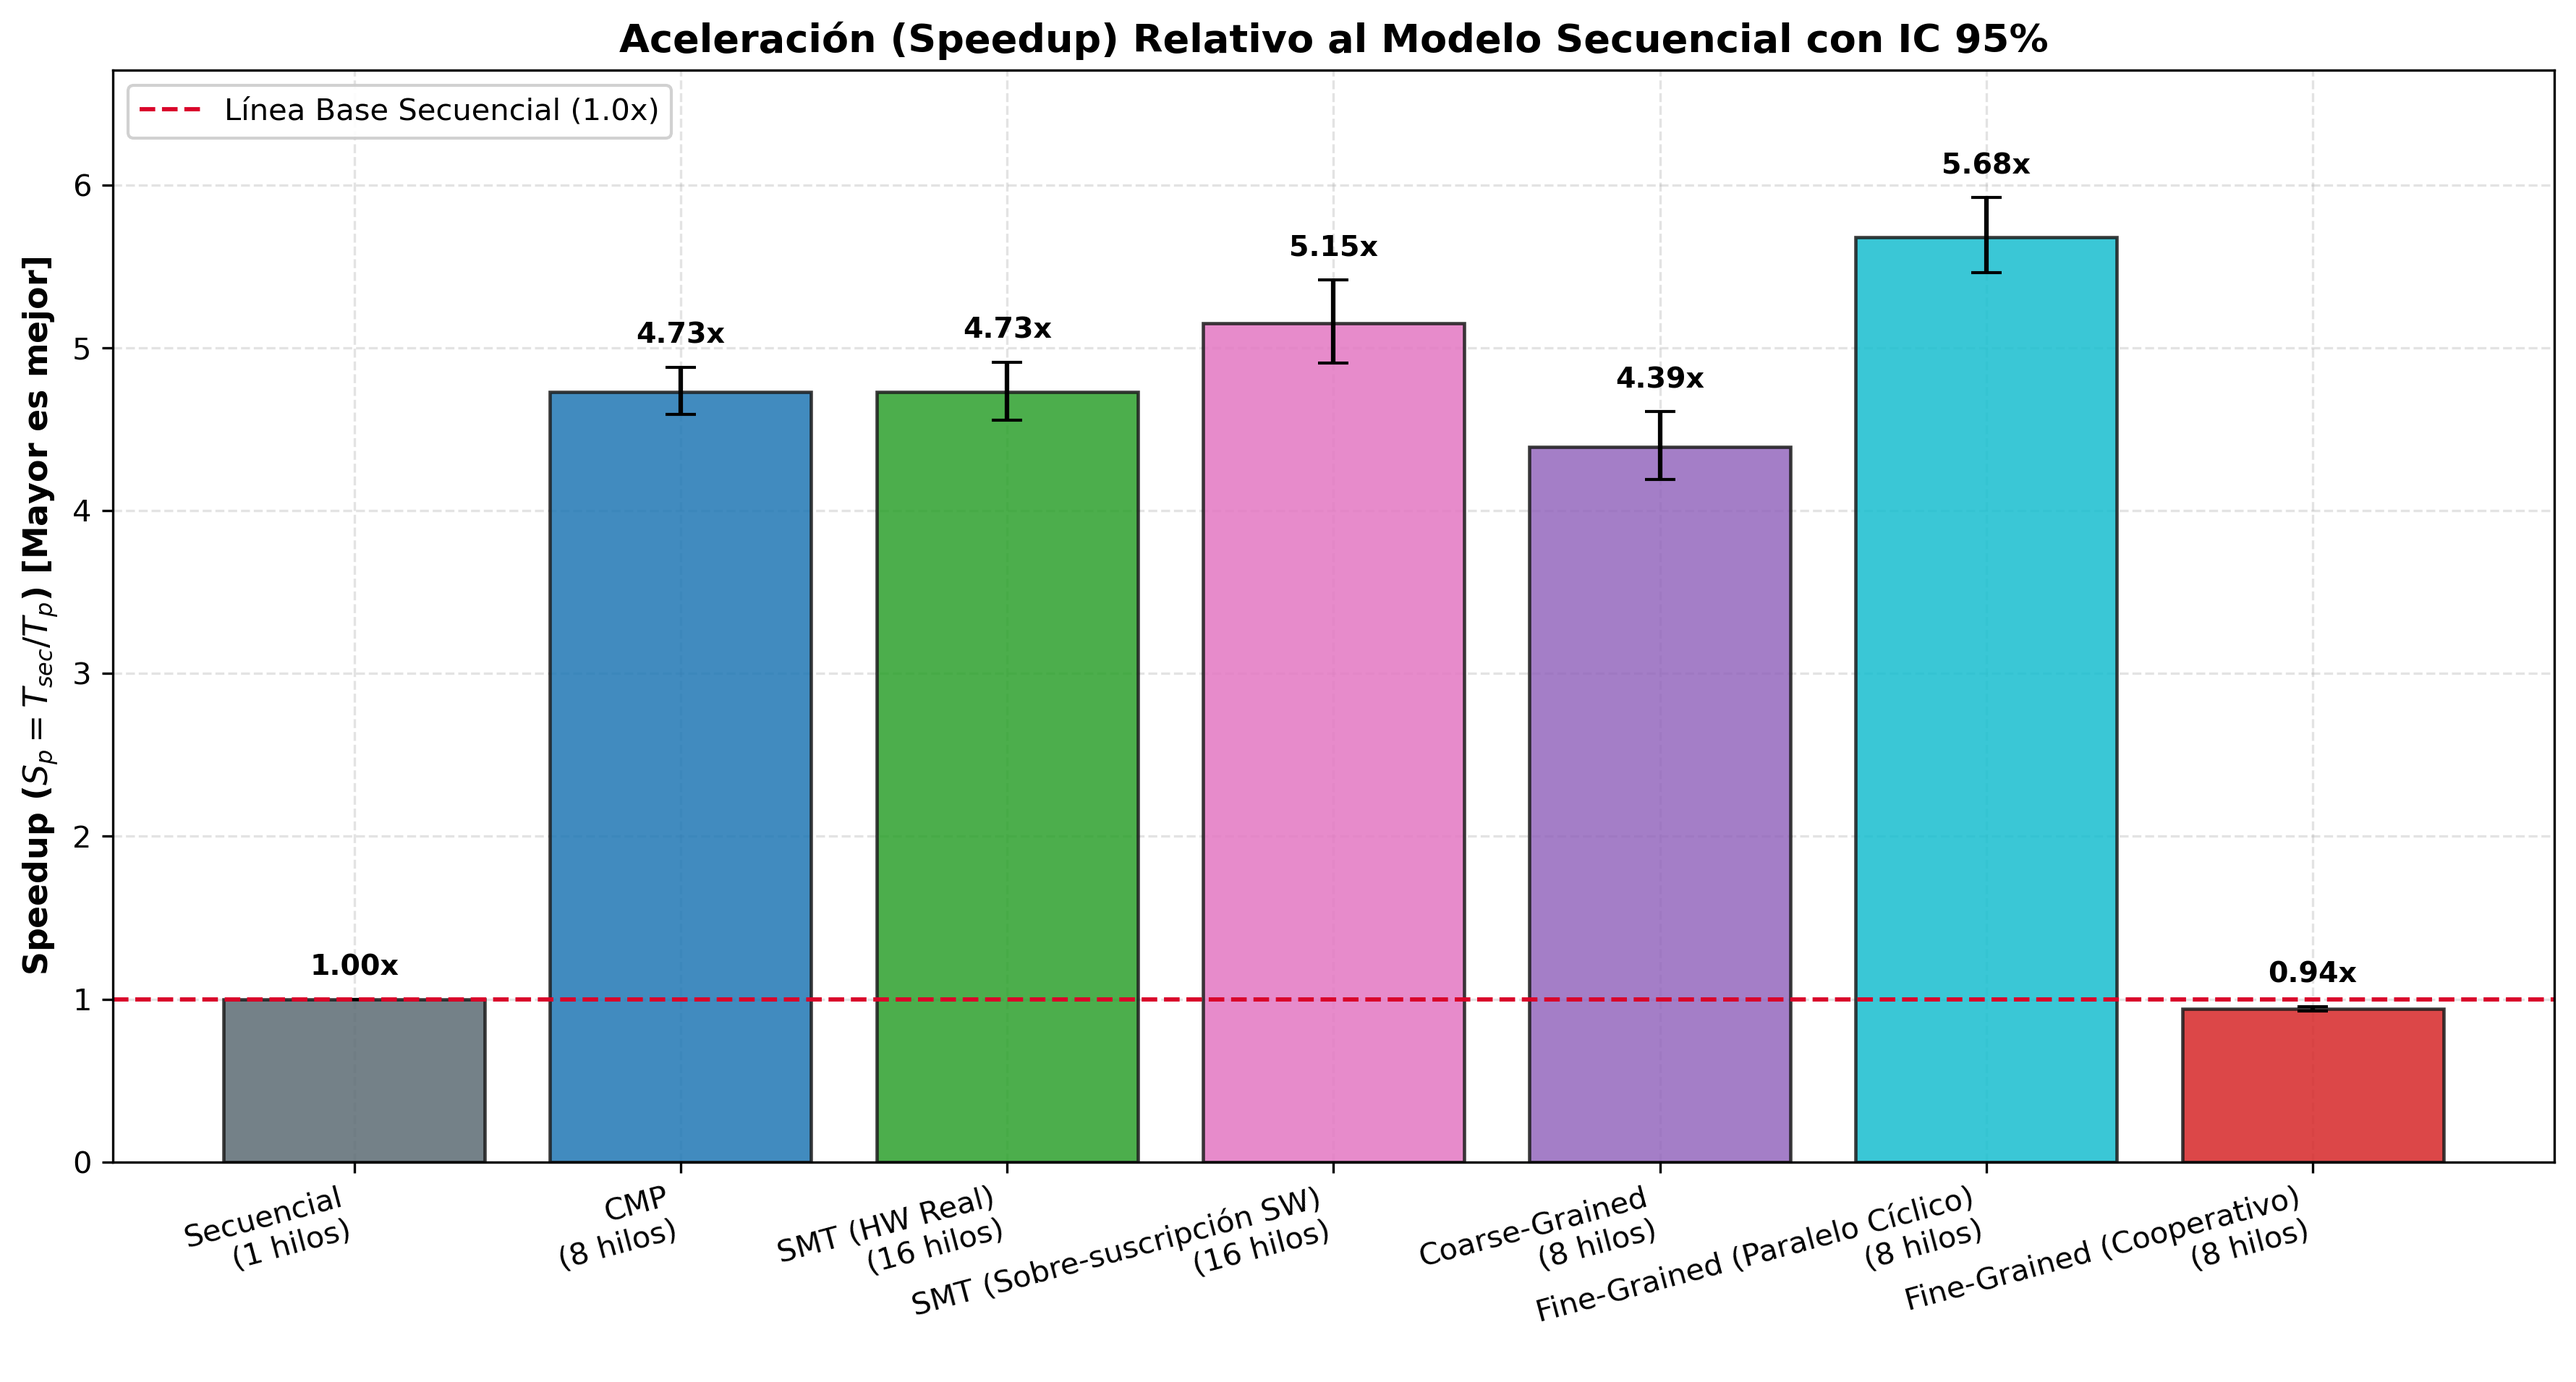
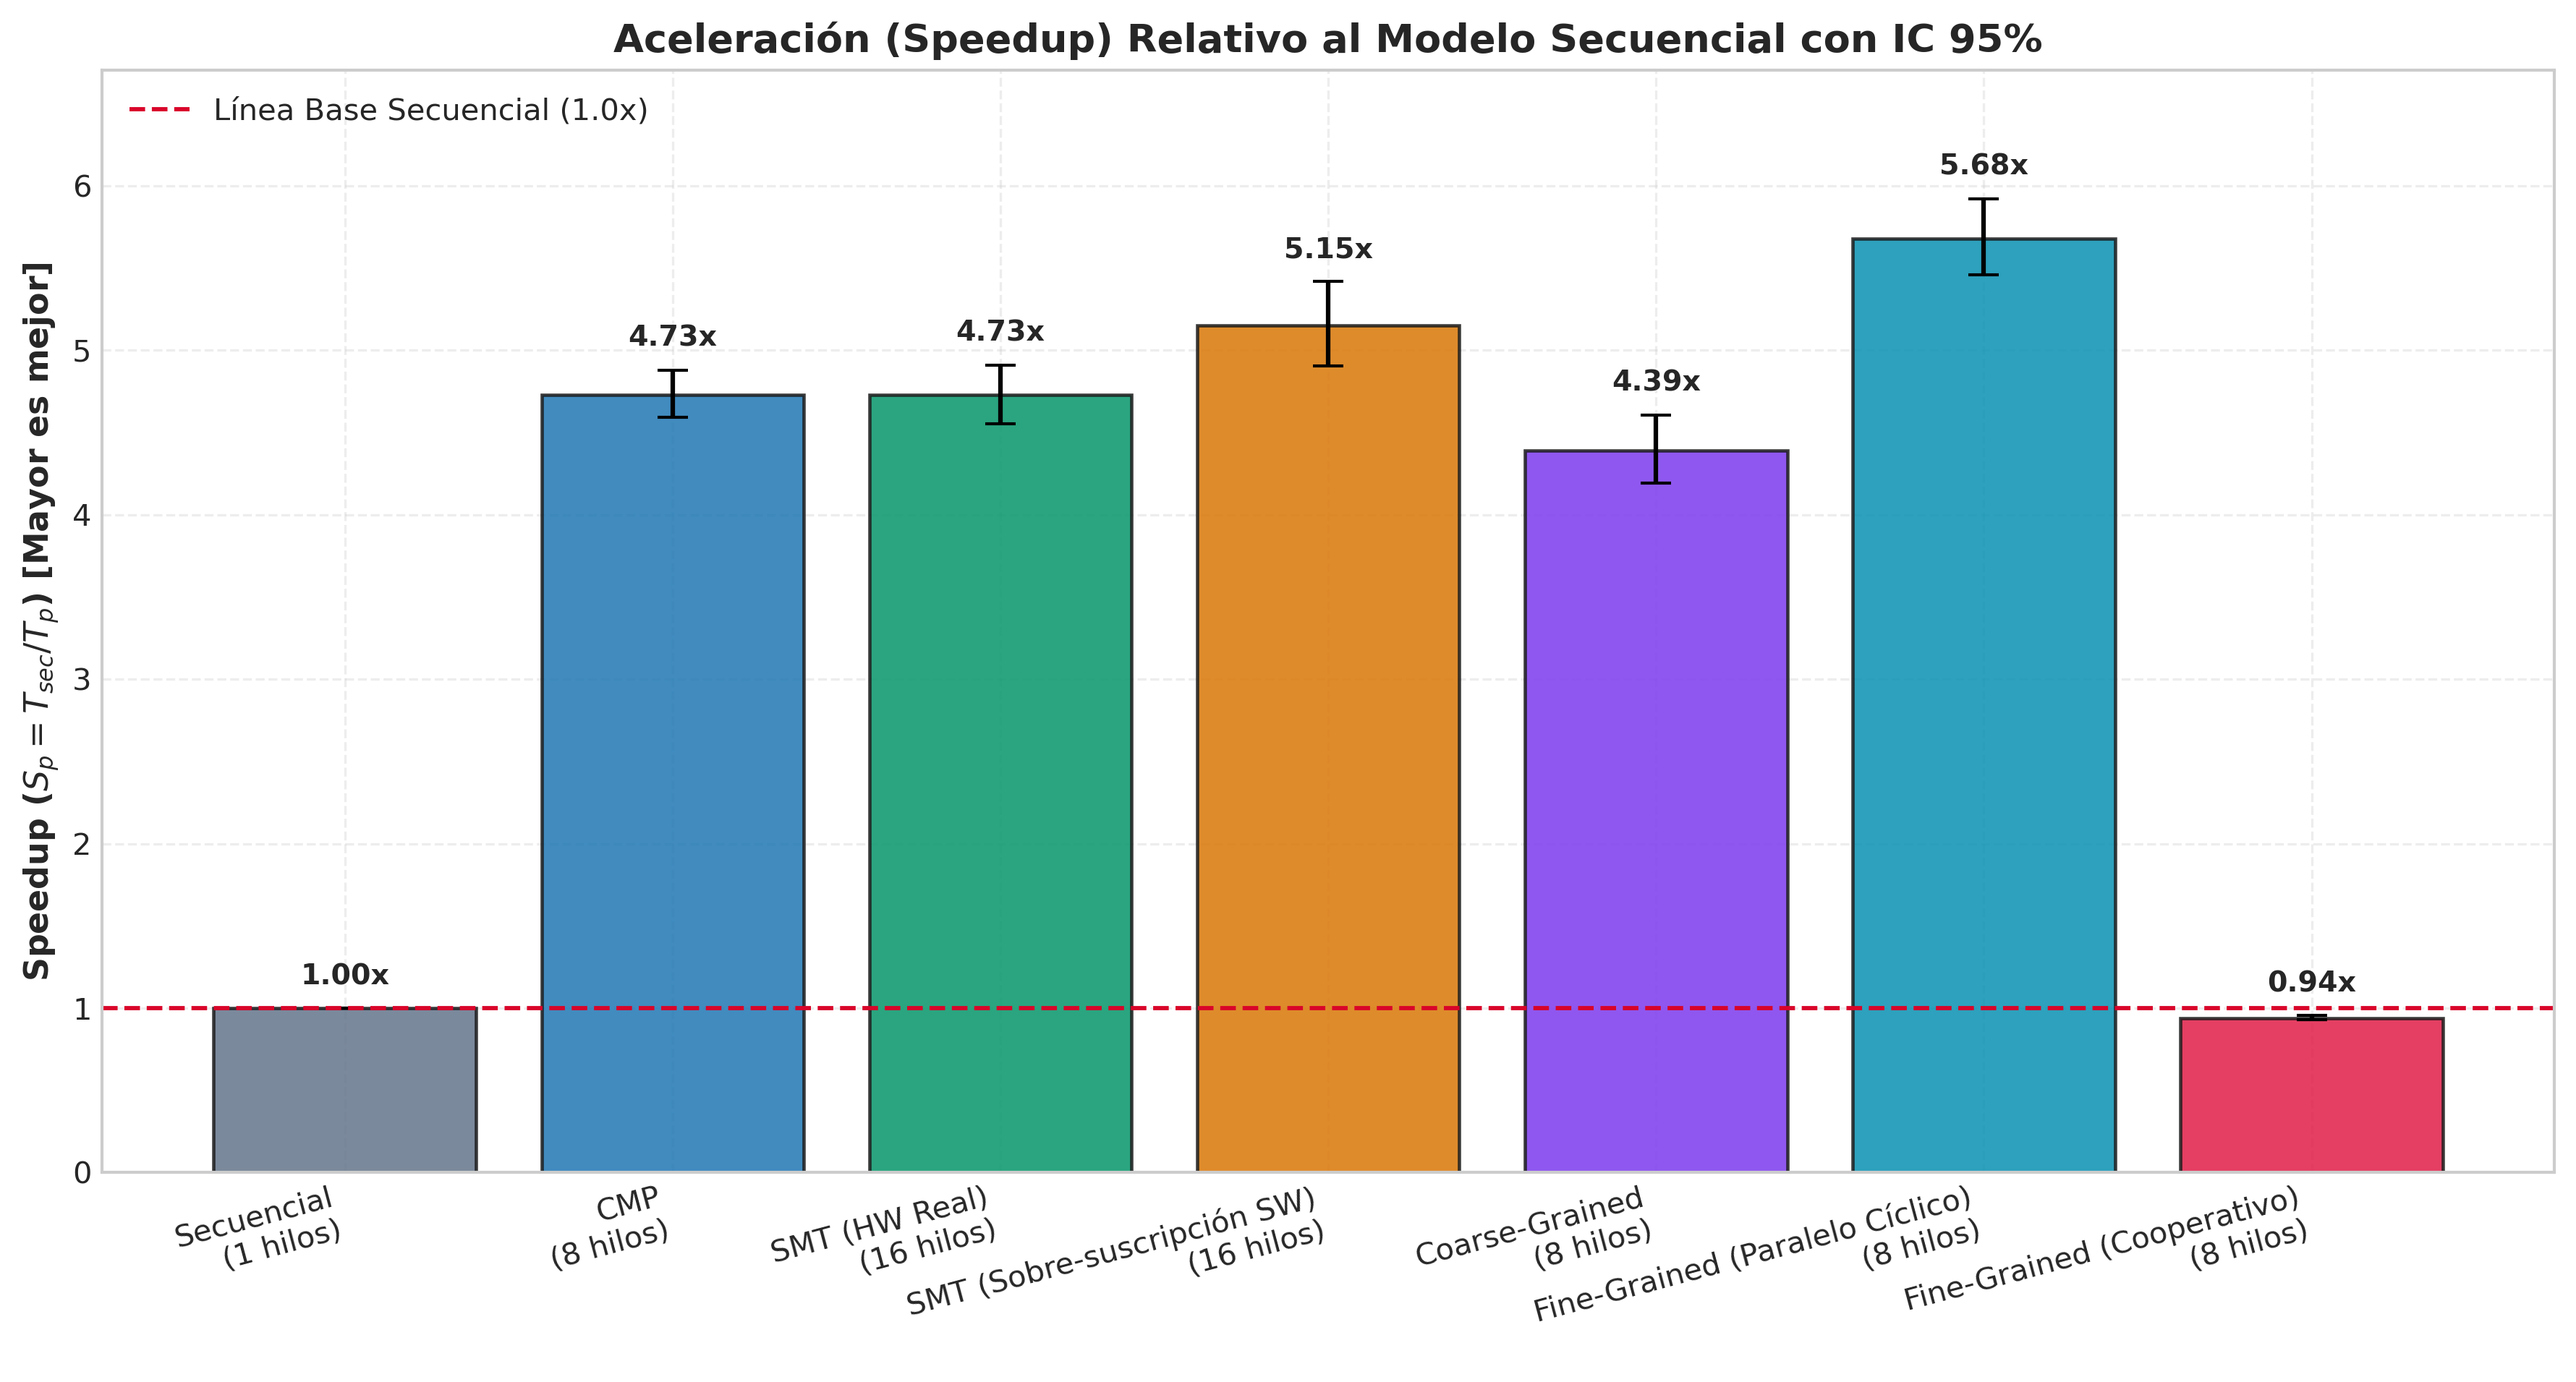
fix: changes in graph for Ray Tracing problem to standardized to other problems

diff --git a/proyecto1/problems/echavarria/RayTracing/scripts/plot_metrics.py b/proyecto1/problems/echavarria/RayTracing/scripts/plot_metrics.py
@@ -9,12 +9,12 @@ Autor: Emanuel Chavarría
 
 Genera figuras científicas en alta resolución (300 DPI) a partir de los datos
 experimentales recolectados por benchmark.py:
-  1. Boxplot de distribución de tiempos de ejecución (ms) por modelo.
-  2. Gráfico de barras de Speedup con barras de error de Intervalo de Confianza (95%).
-  3. Gráfico de Eficiencia Paralela (%) con línea de referencia ideal (100%).
-  4. Comparativa microarquitectónica dual (SMT Real vs SW, Coarse vs Fine).
-  5. Dashboard científico consolidado (2x2 paneles ejecutivos).
-  6. Escalabilidad Fuerte (Strong Scaling) vs Ley de Amdahl (si existe el archivo).
+  01_tiempos_ejecucion_boxplot.png          - Boxplot de distribución de tiempos (ms) por modelo.
+  02_speedup_comparativo.png                - Gráfico de barras de Speedup con IC 95%.
+  03_eficiencia_paralela.png                - Eficiencia Paralela (%) con línea ideal (100%).
+  04_escalabilidad_hilos.png                - Escalabilidad Fuerte (Strong Scaling) vs Ley de Amdahl.
+  08_dashboard_consolidado.png              - Dashboard científico consolidado (2x2 multipanel).
+  09_comparativas_microarquitectonicas.png  - Comparativa dual (SMT HW vs SW, Coarse vs Fine).
 """
 
 import os
@@ -35,7 +35,10 @@ from matplotlib.ticker import MultipleLocator, FormatStrFormatter
 # ==============================================================================
 # CONFIGURACIÓN ESTÉTICA Y PALETA CIENTÍFICA
 # ==============================================================================
+plt.style.use("seaborn-v0_8-whitegrid" if "seaborn-v0_8-whitegrid" in plt.style.available else "default")
 plt.rcParams.update({
+    "font.family": "sans-serif",
+    "font.sans-serif": ["DejaVu Sans", "Helvetica", "Arial"],
     "font.size": 11,
     "axes.titlesize": 13,
     "axes.titleweight": "bold",
@@ -56,13 +59,13 @@ plt.rcParams.update({
 })
 
 PALETA_MODELOS = {
-    "Secuencial": "#5c6b73",                          # Gris pizarra
+    "Secuencial": "#64748b",                          # Slate Gray
     "CMP": "#1f77b4",                                 # Azul institucional
-    "SMT (HW Real)": "#2ca02c",                       # Verde esmeralda
-    "SMT (Sobre-suscripción SW)": "#e377c2",          # Magenta suave
-    "Coarse-Grained": "#9467bd",                      # Púrpura
-    "Fine-Grained (Paralelo Cíclico)": "#17becf",      # Cian / Turquesa
-    "Fine-Grained (Cooperativo)": "#d62728",          # Rojo óxido
+    "SMT (HW Real)": "#059669",                       # Verde esmeralda
+    "SMT (Sobre-suscripción SW)": "#d97706",          # Ámbar / Naranja
+    "Coarse-Grained": "#7c3aed",                      # Púrpura
+    "Fine-Grained (Paralelo Cíclico)": "#0891b2",      # Teal / Cian
+    "Fine-Grained (Cooperativo)": "#e11d48",          # Carmesí
 }
 
 ORDEN_CANONICO = [
@@ -558,20 +561,20 @@ def main():
     p3 = os.path.join(args.output_dir, "03_eficiencia_paralela.png")
     graficar_eficiencia(resumen, p3)
 
-    # 4. Comparativas Microarquitectónicas
-    p4 = os.path.join(args.output_dir, "04_comparativas_microarquitectonicas.png")
-    graficar_comparativas_microarquitectonicas(resumen, p4)
-
-    # 5. Dashboard Consolidado
-    p5 = os.path.join(args.output_dir, "05_dashboard_consolidado.png")
-    graficar_dashboard_consolidado(resumen, p5)
-
-    # 6. Strong Scaling (si existe)
-    p6 = os.path.join(args.output_dir, "06_strong_scaling_amdahl.png")
+    # 4. Escalabilidad de Hilos (Strong Scaling vs Ley de Amdahl)
+    p4 = os.path.join(args.output_dir, "04_escalabilidad_hilos.png")
     if os.path.exists(args.scaling_csv):
-        graficar_strong_scaling_amdahl(args.scaling_csv, p6)
+        graficar_strong_scaling_amdahl(args.scaling_csv, p4)
     else:
         print("  [-] Info: Archivo de Strong Scaling no detectado. Para generarlo ejecute 'make benchmark_scaling'.")
+
+    # 8. Dashboard Consolidado Ejecutivo (Multipanel 2x2)
+    p8 = os.path.join(args.output_dir, "08_dashboard_consolidado.png")
+    graficar_dashboard_consolidado(resumen, p8)
+
+    # 9. Comparativas Microarquitectónicas Duales (Especializada)
+    p9 = os.path.join(args.output_dir, "09_comparativas_microarquitectonicas.png")
+    graficar_comparativas_microarquitectonicas(resumen, p9)
 
     print("\n==============================================================================")
     print(f"[OK] Generación completada con éxito. Gráficas guardadas en:\n  -> {os.path.abspath(args.output_dir)}")

diff --git a/proyecto1/problems/echavarria/RayTracing/scripts/profile_perf.py b/proyecto1/problems/echavarria/RayTracing/scripts/profile_perf.py
@@ -19,9 +19,9 @@ Mide contadores de hardware del procesador (PMU) y del sistema operativo:
 Genera:
   - Archivo CSV consolidado: metricas/raytracing_perf_metrics.csv
   - Gráficas científicas a 300 DPI:
-      07_perf_ipc_comparativo.png
-      08_perf_cache_miss_rates.png
-      09_perf_context_switches.png
+      05_perf_ipc_comparativo.png
+      06_perf_cache_miss_rates.png
+      07_perf_context_switches.png
       10_perf_resumen_microarquitectura.png
 """
 
@@ -45,7 +45,10 @@ import matplotlib.pyplot as plt
 # ==============================================================================
 # CONFIGURACIÓN ESTÉTICA
 # ==============================================================================
+plt.style.use("seaborn-v0_8-whitegrid" if "seaborn-v0_8-whitegrid" in plt.style.available else "default")
 plt.rcParams.update({
+    "font.family": "sans-serif",
+    "font.sans-serif": ["DejaVu Sans", "Helvetica", "Arial"],
     "font.size": 11,
     "axes.titlesize": 13,
     "axes.titleweight": "bold",
@@ -66,13 +69,13 @@ plt.rcParams.update({
 })
 
 PALETA_MODELOS = {
-    "Secuencial": "#5c6b73",
-    "CMP": "#1f77b4",
-    "SMT (HW Real)": "#2ca02c",
-    "SMT (Sobre-suscripción SW)": "#e377c2",
-    "Coarse-Grained": "#9467bd",
-    "Fine-Grained (Paralelo Cíclico)": "#17becf",
-    "Fine-Grained (Cooperativo)": "#d62728",
+    "Secuencial": "#64748b",                          # Slate Gray
+    "CMP": "#1f77b4",                                 # Azul institucional
+    "SMT (HW Real)": "#059669",                       # Verde esmeralda
+    "SMT (Sobre-suscripción SW)": "#d97706",          # Ámbar / Naranja
+    "Coarse-Grained": "#7c3aed",                      # Púrpura
+    "Fine-Grained (Paralelo Cíclico)": "#0891b2",      # Teal / Cian
+    "Fine-Grained (Cooperativo)": "#e11d48",          # Carmesí
 }
 
 ORDEN_CANONICO = [
@@ -494,13 +497,13 @@ def main():
                     "page_faults": float(row["page_faults"]),
                 }
 
-        p_ipc = os.path.join(args.output_dir, "07_perf_ipc_comparativo.png")
+        p_ipc = os.path.join(args.output_dir, "05_perf_ipc_comparativo.png")
         graficar_ipc(metricas_consolidadas, p_ipc)
 
-        p_cache = os.path.join(args.output_dir, "08_perf_cache_miss_rates.png")
+        p_cache = os.path.join(args.output_dir, "06_perf_cache_miss_rates.png")
         graficar_cache_miss_rates(metricas_consolidadas, p_cache)
 
-        p_cs = os.path.join(args.output_dir, "09_perf_context_switches.png")
+        p_cs = os.path.join(args.output_dir, "07_perf_context_switches.png")
         graficar_context_switches(metricas_consolidadas, p_cs)
 
         p_dash = os.path.join(args.output_dir, "10_perf_resumen_microarquitectura.png")
@@ -636,13 +639,13 @@ def main():
     print("==============================================================================")
     print("                 GENERANDO GRÁFICAS DE MICROARQUITECTURA                      ")
     print("==============================================================================")
-    p_ipc = os.path.join(args.output_dir, "07_perf_ipc_comparativo.png")
+    p_ipc = os.path.join(args.output_dir, "05_perf_ipc_comparativo.png")
     graficar_ipc(metricas_consolidadas, p_ipc)
 
-    p_cache = os.path.join(args.output_dir, "08_perf_cache_miss_rates.png")
+    p_cache = os.path.join(args.output_dir, "06_perf_cache_miss_rates.png")
     graficar_cache_miss_rates(metricas_consolidadas, p_cache)
 
-    p_cs = os.path.join(args.output_dir, "09_perf_context_switches.png")
+    p_cs = os.path.join(args.output_dir, "07_perf_context_switches.png")
     graficar_context_switches(metricas_consolidadas, p_cs)
 
     p_dash = os.path.join(args.output_dir, "10_perf_resumen_microarquitectura.png")

diff --git a/proyecto1/problems/echavarria/RayTracing/scripts/benchmark.py b/proyecto1/problems/echavarria/RayTracing/scripts/benchmark.py
@@ -166,6 +166,8 @@ def parsear_argumentos():
                         help="Incluir SMT con apagado real en kernel (requiere sudo)")
     parser.add_argument("--strong-scaling", action="store_true", default=False,
                         help="Ejecutar barrido adicional de escalabilidad fuerte (p = 1, 2, 4, 8, 16 hilos)")
+    parser.add_argument("--scaling-runs", type=int, default=None,
+                        help="Cantidad de corridas por punto de hilos en strong scaling (defecto: igual a --runs)")
 
     # Archivos de salida
     parser.add_argument("--output-csv", type=str, default="../metricas/raytracing_benchmark.csv",
@@ -492,7 +494,7 @@ def main():
         print("           BARRIDO DE ESCALABILIDAD FUERTE (LEY DE AMDAHL)                    ")
         print("==============================================================================")
         hilos_sweep = [1, 2, 4, 8, 16]
-        scaling_runs = min(10, args.runs)
+        scaling_runs = args.scaling_runs if args.scaling_runs is not None else args.runs
         print(f"Hilos a evaluar    : {hilos_sweep}")
         print(f"Corridas por punto : {scaling_runs}")
         print(f"Archivo de Salida  : {scaling_output_path}\n")
